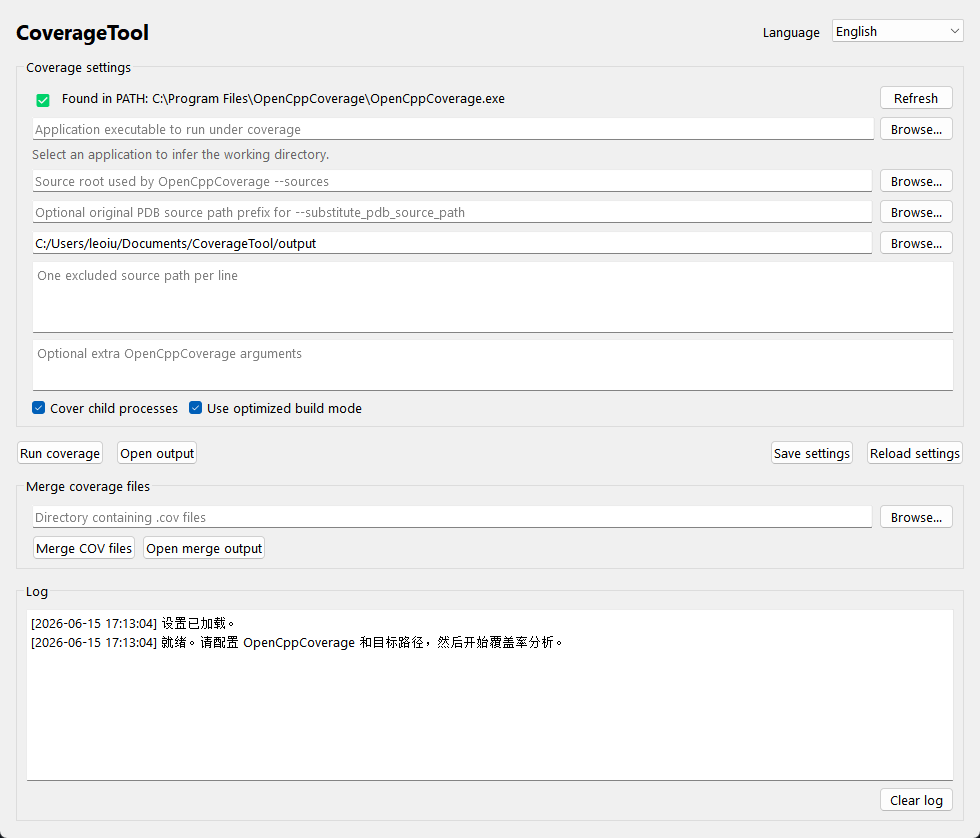
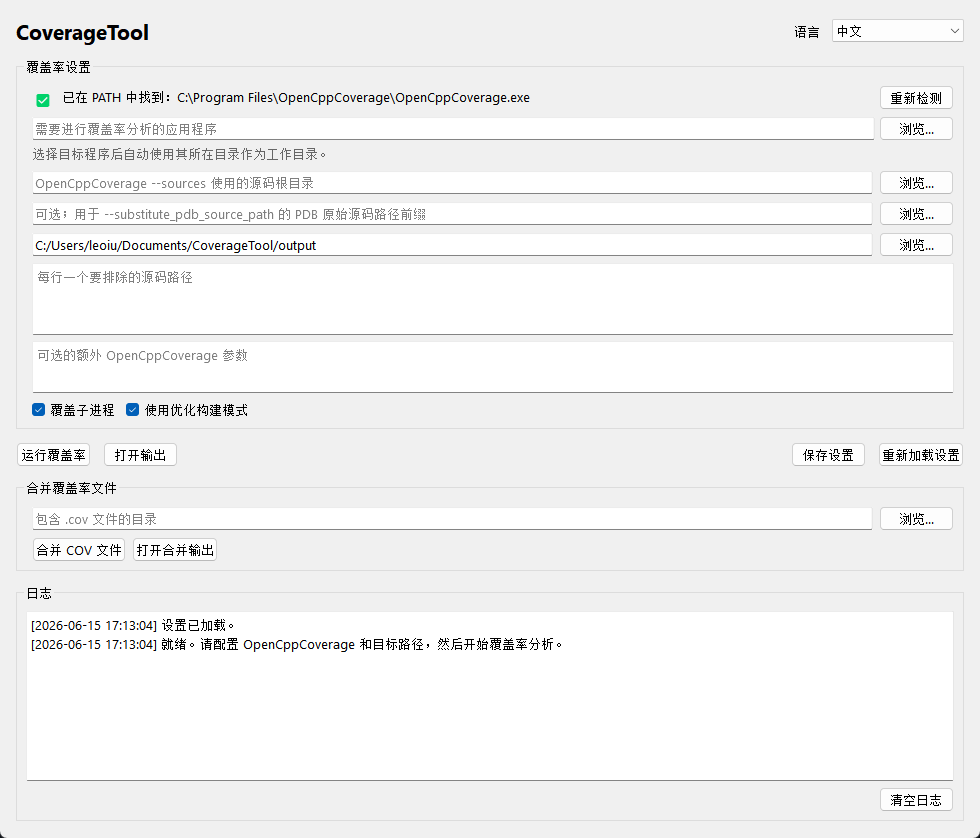
docs: describe GUI workflow benefits

diff --git a/README.md b/README.md
@@ -2,6 +2,10 @@
 
 CoverageTool 是一个 Windows 桌面端 [OpenCppCoverage](https://github.com/OpenCppCoverage/OpenCppCoverage) 图形界面工具。它会从 `PATH` 自动检测 `OpenCppCoverage.exe`，并提供目标程序、源码目录、可选 PDB 源码路径替换、输出格式、排除路径和 COV 文件合并等常用配置。
 
+## 解决的核心痛点
+
+OpenCppCoverage 原项目主要通过命令行使用，参数较多且不容易记忆。CoverageTool 将常用覆盖率分析流程封装成 GUI 快捷操作，让用户通过选择目标程序、源码目录、输出目录和排除规则即可生成覆盖率报告，减少反复查命令和手写参数的成本。
+
 ## 功能
 
 - 从 `PATH` 自动检测 `OpenCppCoverage.exe`，未检测到时提供 GitHub 下载入口。